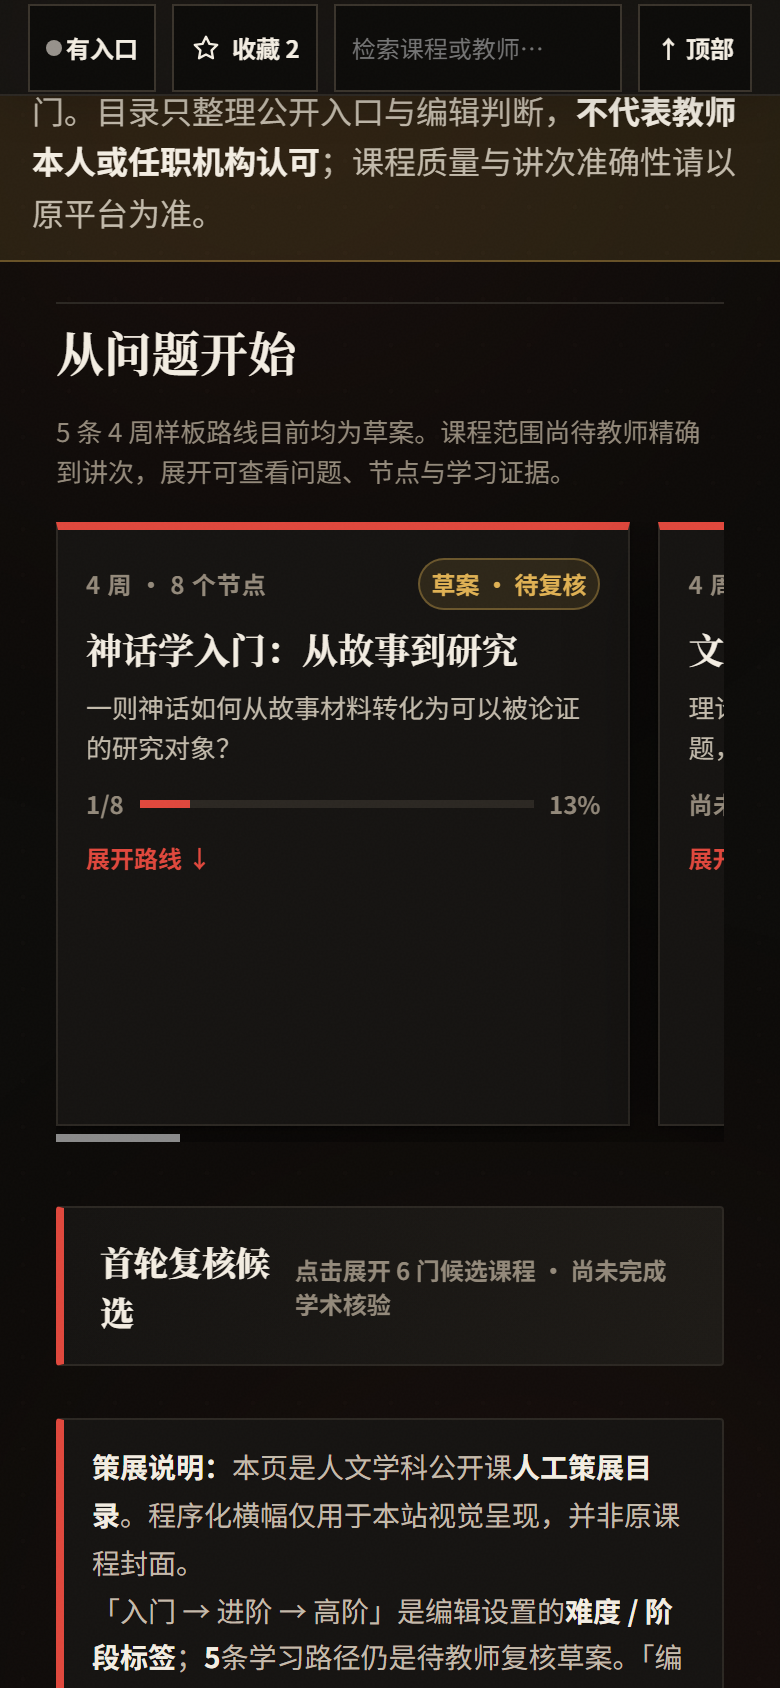
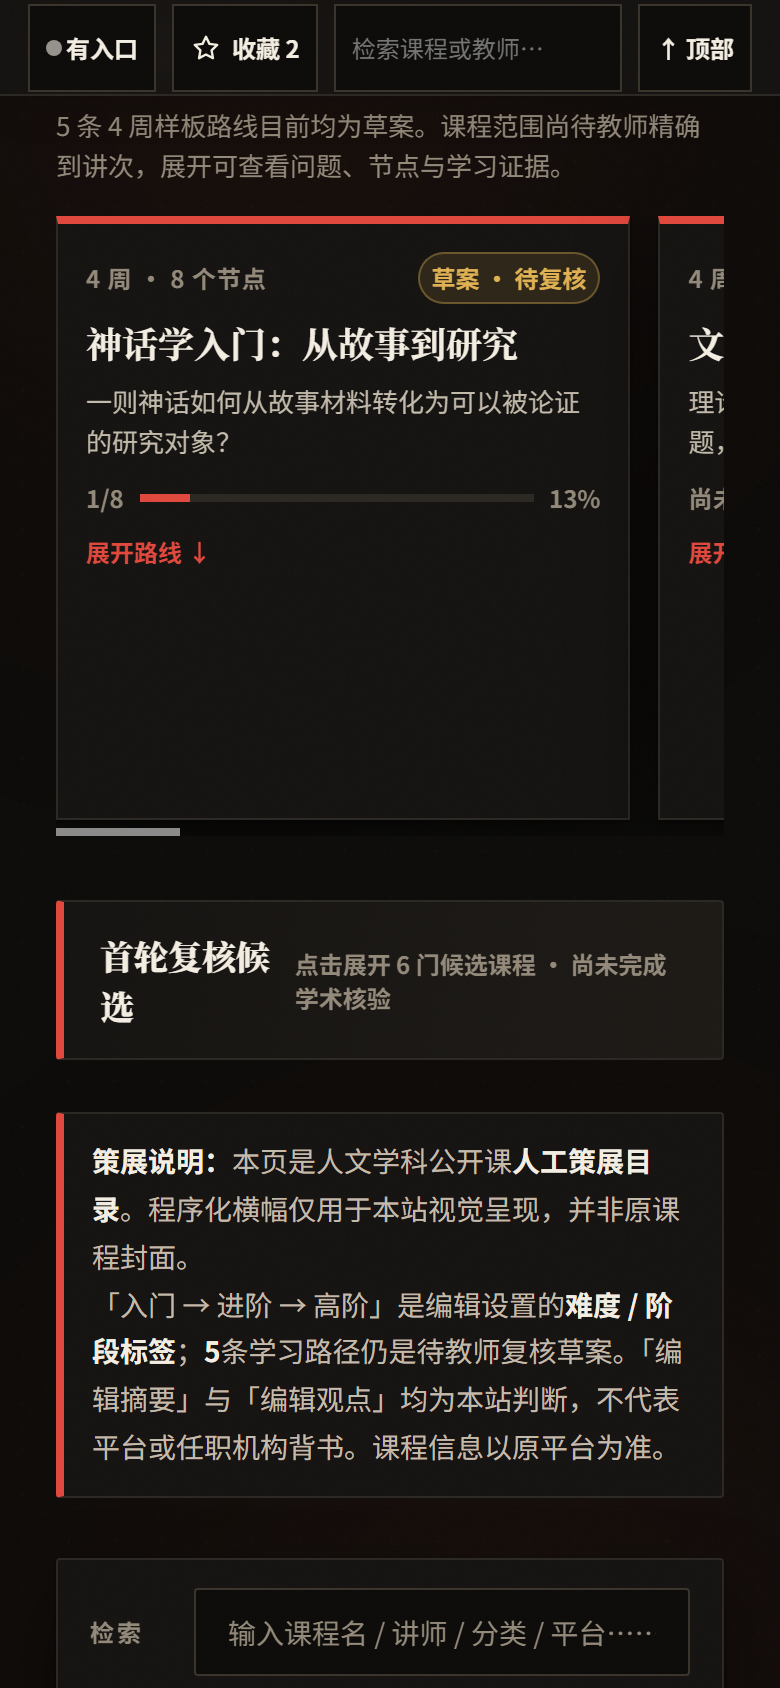
披露位移：移除页首常驻学术核验横幅，完整声明落到页脚、简短提示落到课程跳转处，description/og:description 同步披露

diff --git a/index.html b/index.html
@@ -5,7 +5,7 @@
 <meta name="viewport" content="width=device-width, initial-scale=1.0" />
 <meta name="referrer" content="strict-origin-when-cross-origin" />
 <meta http-equiv="Content-Security-Policy" content="default-src 'self'; script-src 'self' 'unsafe-inline'; style-src 'self' 'unsafe-inline'; img-src 'self' data:; connect-src 'none'; object-src 'none'; base-uri 'none'; form-action 'none'" />
-<meta name="description" content="跨平台人文学科公开课目录，支持课程检索、收藏、对比和四周学习路径。" />
+<meta name="description" content="跨平台人文学科公开课目录：205 门课程只整理公开入口与编辑判断，未经教师本人学术核验，不代表其本人或机构认可；支持检索、收藏、对比与四周学习路径。" />
 <title>人文学科公开课目录 · 选课与学习路径</title>
 <!-- 站点正式地址：全站唯一基址来源。迁移域名时只改下面的 canonical，
      tools/build-site.js 会从中读取基址生成 sitemap.xml 与结构化数据，无需改第二处。
@@ -14,7 +14,7 @@
 <meta property="og:type" content="website" />
 <meta property="og:site_name" content="人文学科公开课目录" />
 <meta property="og:title" content="人文学科公开课目录 · 选课与学习路径" />
-<meta property="og:description" content="跨平台人文学科公开课目录，支持课程检索、收藏、对比和四周学习路径。" />
+<meta property="og:description" content="跨平台人文学科公开课目录：205 门课程只整理公开入口与编辑判断，未经教师本人学术核验，不代表其本人或机构认可；支持检索、收藏、对比与四周学习路径。" />
 <meta property="og:url" content="https://lm7644.github.io/humanities-courses/" />
 <meta property="og:image" content="https://lm7644.github.io/humanities-courses/assets/og-cover.png" />
 <meta property="og:image:width" content="1200" />
@@ -1020,18 +1020,19 @@
   .hero-search input:focus-visible{outline:2px solid var(--accent-2);outline-offset:1px;}
   .hero-search .hero-action{border-radius:0 2px 2px 0;white-space:nowrap;}
 
-  /* 学术核验声明条：常驻页首，不随筛选消失 */
-  .disclosure{position:relative;z-index:3;background:var(--gold-bg);border-bottom:1px solid var(--gold-bd);}
-  .dc-inner{display:flex;align-items:flex-start;gap:12px;max-width:1360px;margin:0 auto;padding:11px 28px;}
-  .dc-tag{flex:none;padding:2px 8px;border:1px solid var(--gold-bd);border-radius:2px;color:var(--gold);font:700 11px/1.6 var(--font-sans);letter-spacing:.06em;white-space:nowrap;}
-  .dc-text{color:var(--ink-soft);font-size:13px;line-height:1.6;}
-  .dc-text b{color:var(--ink);}
+  /* 学术核验披露：不再常驻页首，落在页脚（完整措辞）与卡片跳转处（一行小字） */
+  .foot-disclosure{
+    margin:0 0 12px;padding:10px 0 12px;border-bottom:1px dashed var(--line);
+    color:var(--ink-soft);font-size:13px;line-height:1.7;
+  }
+  .foot-disclosure b{color:var(--ink);}
+  .foot-disclosure .fd-tag{font-weight:700;color:var(--gold);letter-spacing:.04em;}
+  .jump-note{font-size:12px;line-height:1.6;color:var(--muted);margin:8px 0 0;}
   #courseExplorer{scroll-margin-top:64px;}
   @media(max-width:860px){.nav-filter-btn.nav-major{display:block;}.scroll-nav .mini-search{min-width:92px;}.scroll-top{min-width:48px;}}
   @media(max-width:560px){
     .hero-actions{display:grid;grid-template-columns:1fr;}.hero-action{justify-content:center;}
     .hero-search{max-width:none;}
-    .dc-inner{flex-direction:column;gap:6px;padding:10px 16px;}
     .hero-title .title-path{display:block;}
     .paths-block{padding-top:12px;overflow:hidden;}.path-grid{display:grid;grid-auto-flow:column;grid-template-columns:none;grid-auto-columns:86%;overflow-x:auto;overscroll-behavior-inline:contain;scroll-snap-type:inline mandatory;padding-bottom:8px;scrollbar-width:thin;}.path-item{scroll-snap-align:start;}.path-item summary{min-height:0;}
     .notice{padding:12px 14px;}
@@ -1049,7 +1050,7 @@
 @media (max-width:560px){
   .review{font-size:16px;line-height:1.65;}
   .intro{font-size:16px;line-height:1.7;}
-  .dc-text{font-size:16px;line-height:1.6;}
+  .foot-disclosure{font-size:16px;line-height:1.7;}
   .path-note li,.path-note p,.blocked-note{font-size:16px;line-height:1.7;}
   .meta,.meta.teacher,.meta.verify,.meta.sched{font-size:13px;line-height:1.5;}
   .hero-action{min-height:44px;}
@@ -1119,14 +1120,6 @@
   <nav class="cat-index" aria-label="分类索引">
     <div class="cat-index-track" id="categoryFilters" role="group" aria-label="按分类筛选"></div>
   </nav>
-
-  <!-- 学术核验状态声明：数字由数据计算，避免文案与数据走失 -->
-  <div class="disclosure" role="note">
-    <div class="dc-inner">
-      <span class="dc-tag">未完成学术核验</span>
-      <span class="dc-text" id="disclosureText">本站 205 门课程中，经教师本人学术核验的为 0 门。目录只整理公开入口与编辑判断，<b>不代表教师本人或任职机构认可</b>；课程质量与讲次准确性请以原平台为准。</span>
-    </div>
-  </div>
 
   <div class="wrap">
 
@@ -1208,11 +1201,16 @@
     </div>
   </div>
 
+  <!-- 学术核验简短提示：落在课程列表/跳转处，页首不再常驻 -->
+  <p class="jump-note">课程入口均未经教师本人学术核验；跳转后请以原平台说明为准。</p>
+
   <!-- 课程展示区（由 JS 按分类渲染） -->
   <main id="content" tabindex="-1"></main>
 
   <footer>
-    课程入口、开放范围和收费方式可能随平台调整。本站只提供外部链接与编辑整理，不托管课程内容；学习前请以原平台当前页面为准。课程横幅为本站程序化视觉，并非原课程封面。
+    <!-- 学术核验披露（完整措辞）：数字由数据计算，避免文案与数据走失 -->
+    <p class="foot-disclosure" id="disclosureText" role="note"><span class="fd-tag">未完成学术核验</span>　本站 205 门课程中，经教师本人学术核验的为 <b>0</b> 门。目录只整理公开入口与编辑判断，<b>不代表教师本人或任职机构认可</b>；课程质量与讲次准确性请以原平台为准。</p>
+    <p>课程入口、开放范围和收费方式可能随平台调整。本站只提供外部链接与编辑整理，不托管课程内容；学习前请以原平台当前页面为准。课程横幅为本站程序化视觉，并非原课程封面。</p>
   </footer>
 
   </div><!-- /.wrap-main -->
@@ -1519,7 +1517,7 @@ function buildHeroExtras(){
   // 学术核验数字由数据推导：0 也照样写出来，不靠文案硬编码
   const verified = COURSES.filter(course => course.verified_at).length;
   const disclose = document.getElementById("disclosureText");
-  if(disclose) disclose.innerHTML = `本站 ${COURSES.length} 门课程中，经教师本人学术核验的为 <b>${verified}</b> 门。目录只整理公开入口与编辑判断，<b>不代表教师本人或任职机构认可</b>；课程质量与讲次准确性请以原平台为准。`;
+  if(disclose) disclose.innerHTML = `<span class="fd-tag">未完成学术核验</span>　本站 ${COURSES.length} 门课程中，经教师本人学术核验的为 <b>${verified}</b> 门。目录只整理公开入口与编辑判断，<b>不代表教师本人或任职机构认可</b>；课程质量与讲次准确性请以原平台为准。`;
   // 路径条数由数据推导，避免文案里的数字随数据增长而失真
   const pathNote = document.getElementById("pathCountNote");
   if(pathNote) pathNote.textContent = String(PATHS.length);
